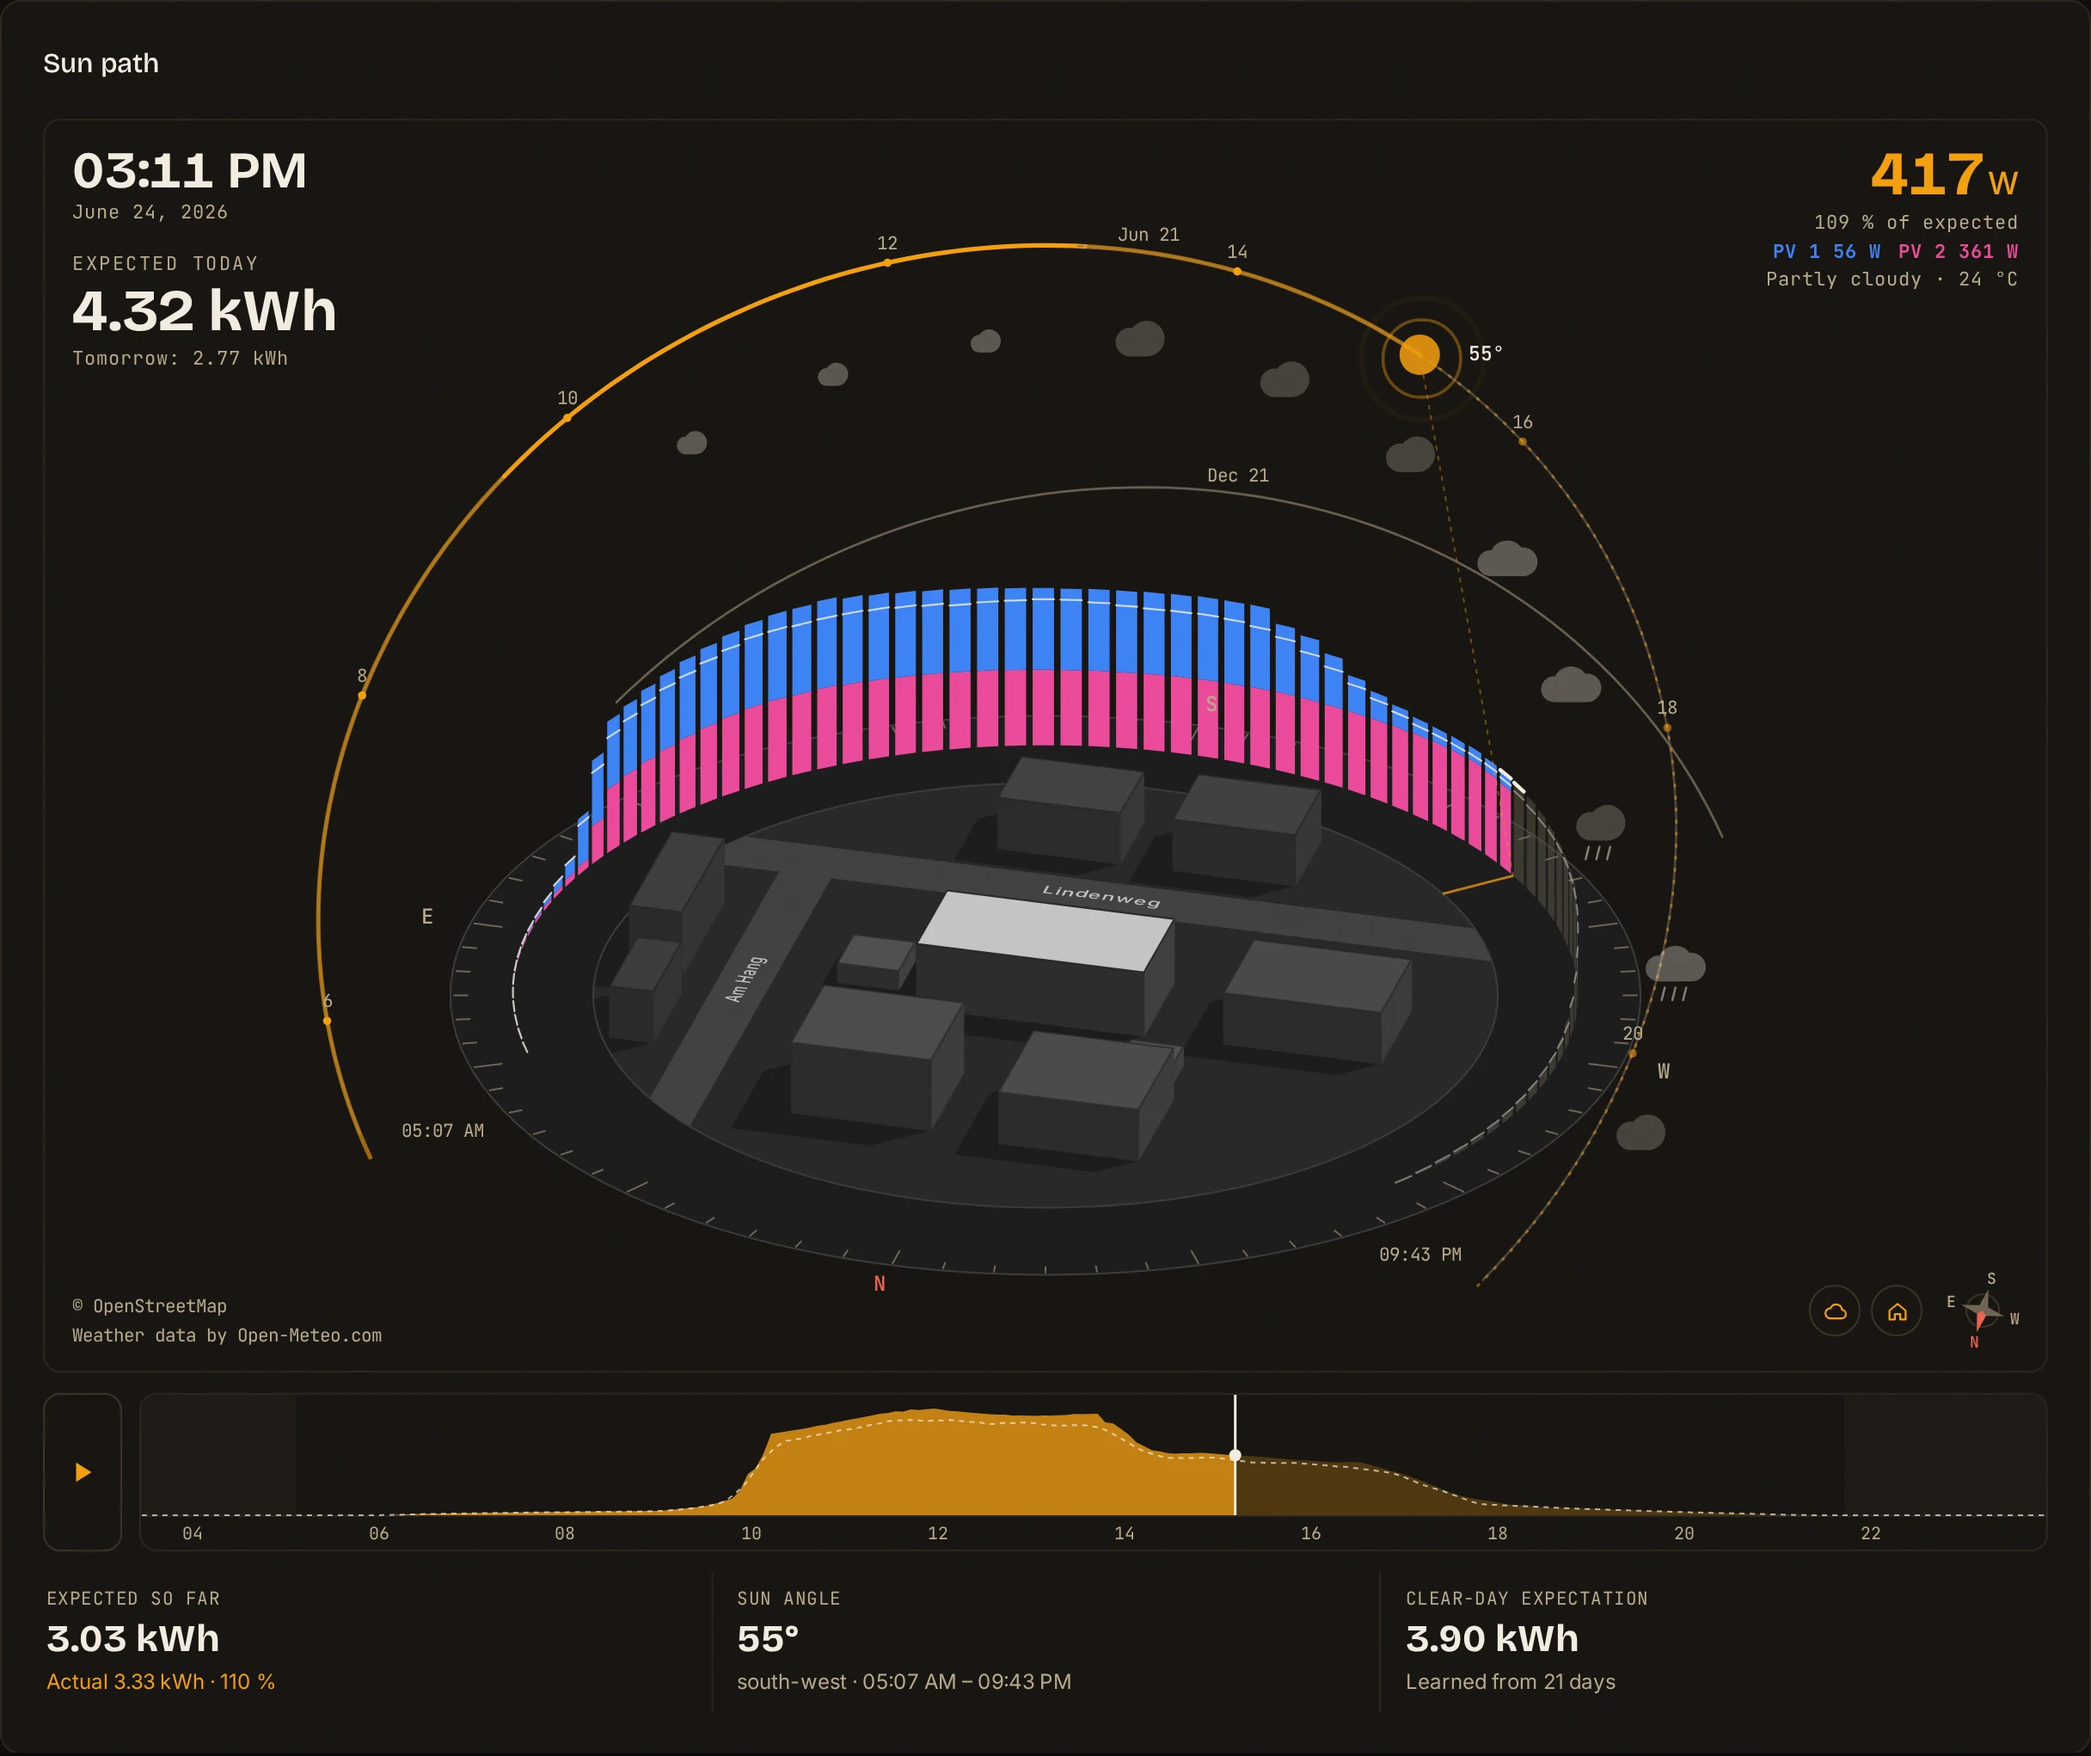
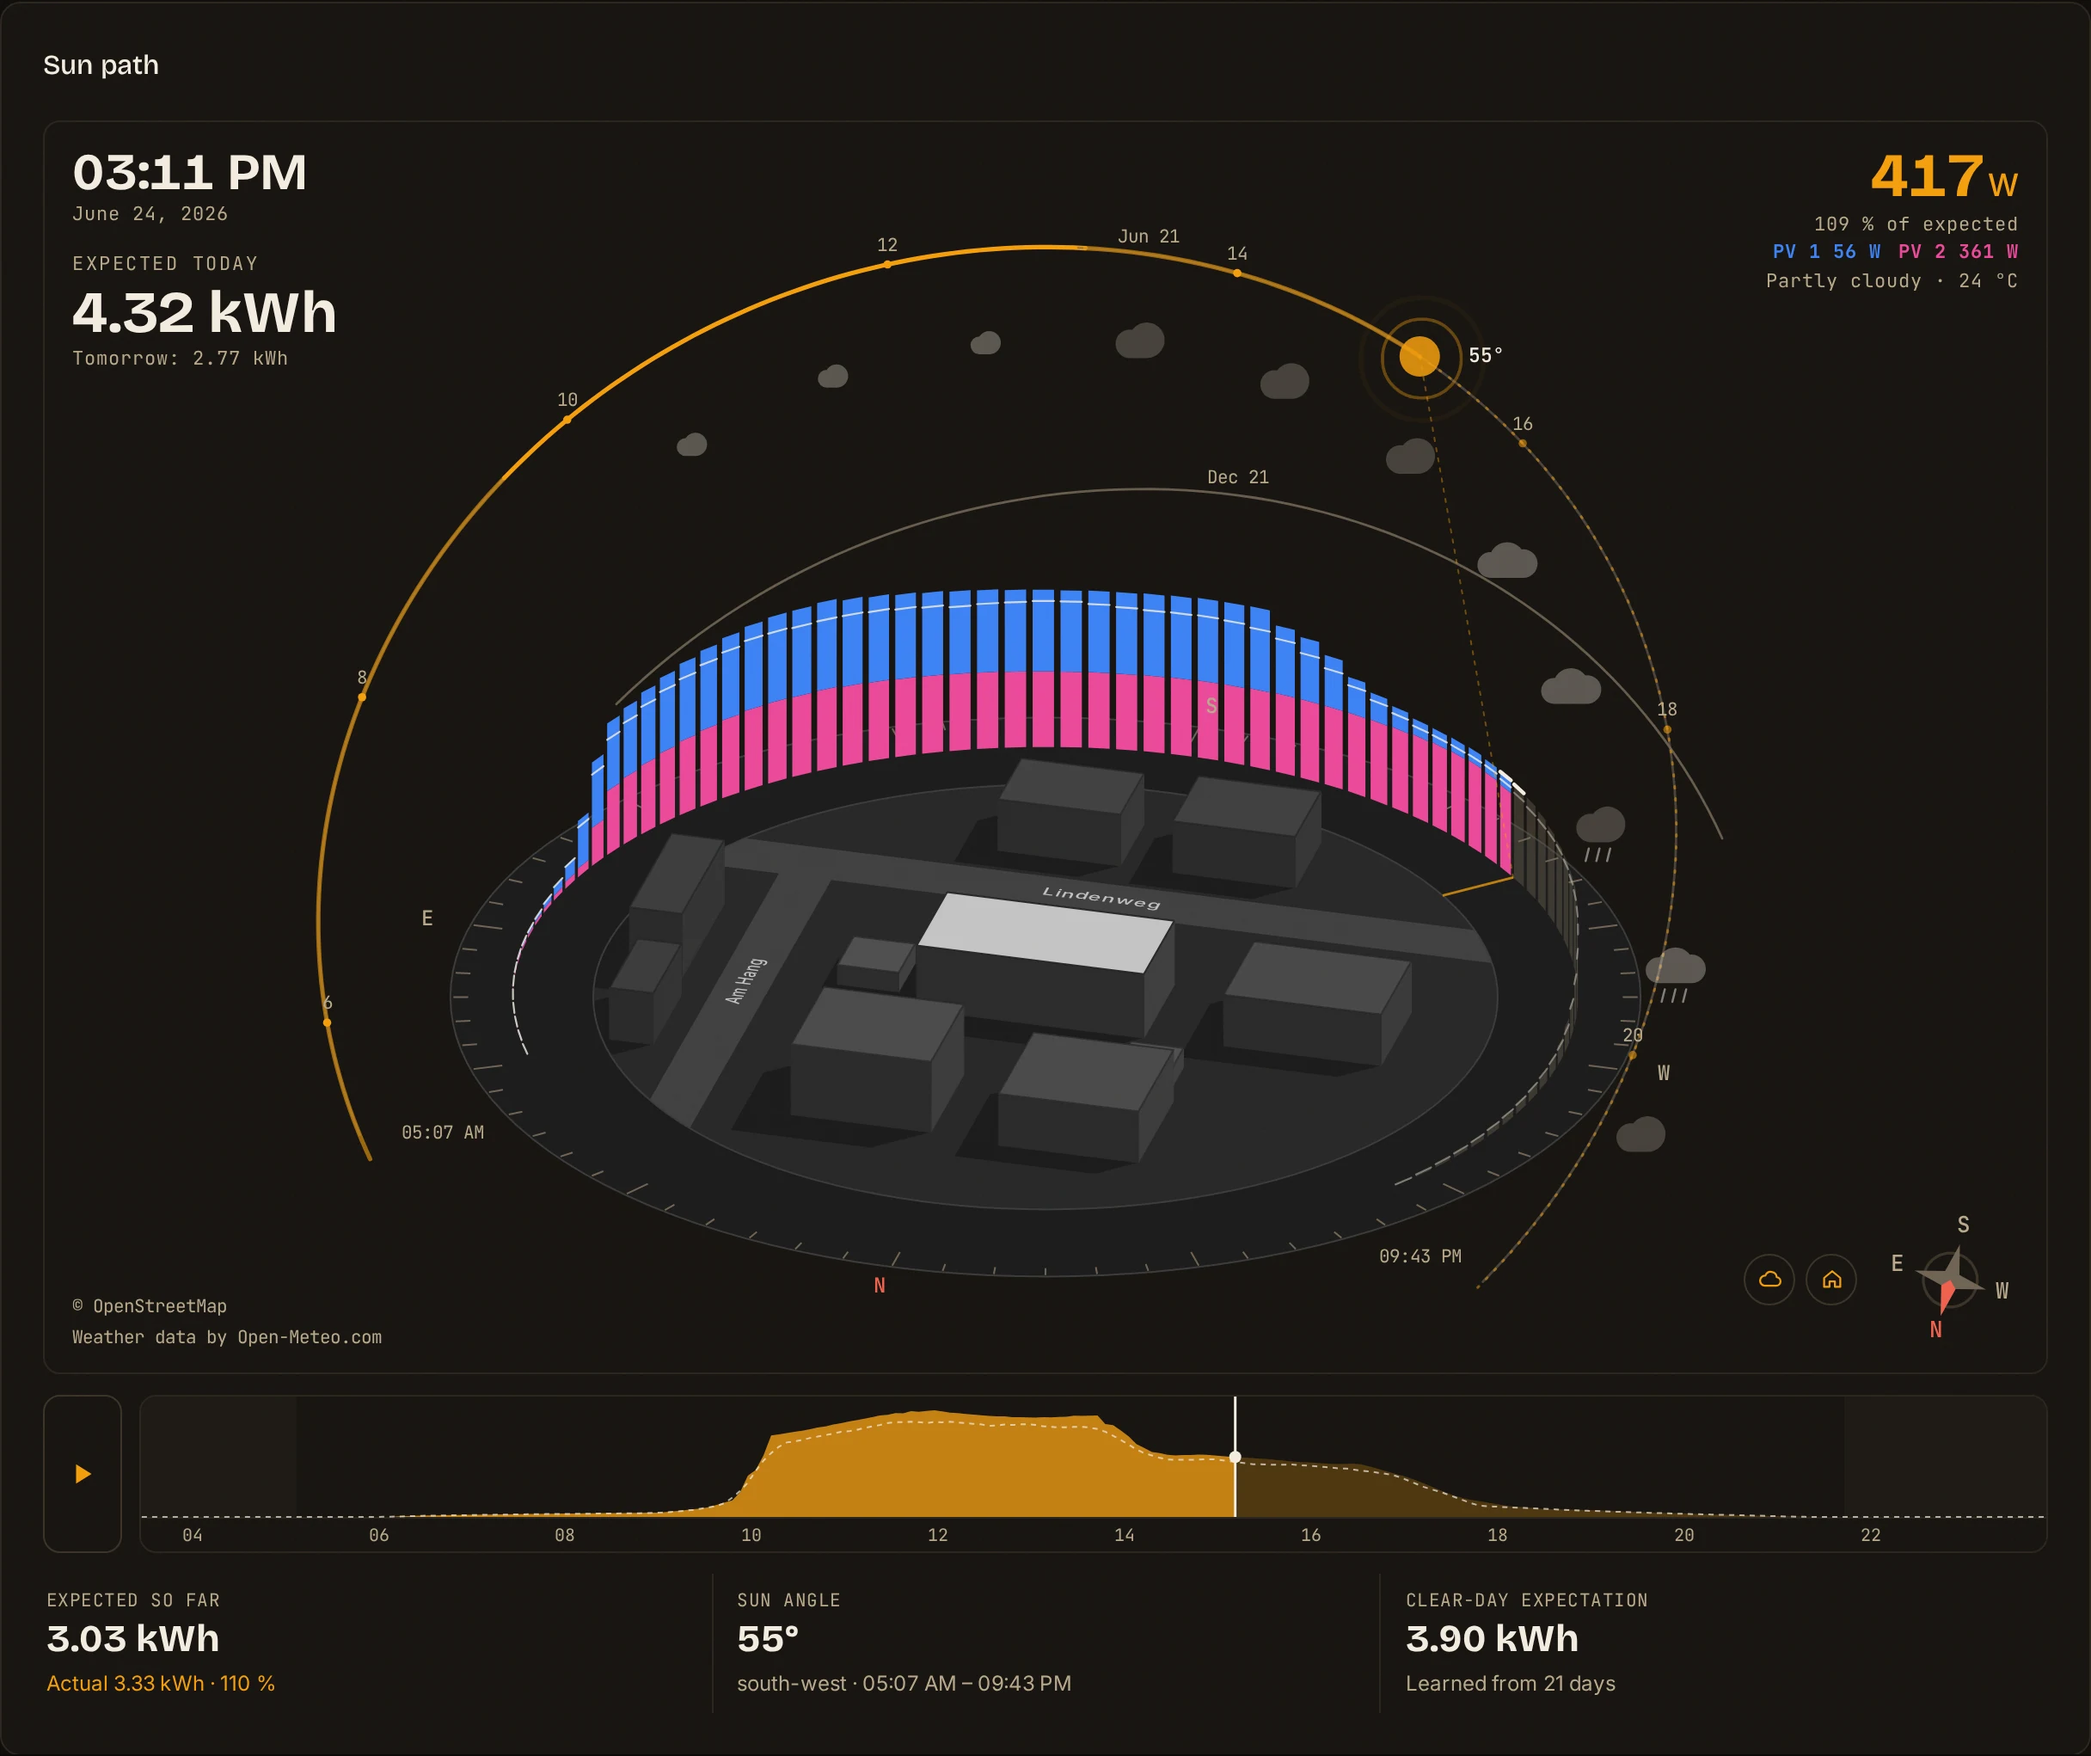
docs: v1.15.3 notes, new screenshots

diff --git a/README.md b/README.md
@@ -47,11 +47,11 @@ to live grid CO₂ data.
 </picture>
 
 - ⚡ **Live view.** Total and per-input power, refreshed every 10 s while the
-  sun is up and right away when you come back to the tab, plus inverter
-  temperature, grid voltage and frequency where the firmware reports them.
-  A small graph in the header shows the inverter's temperature over the last
-  three hours, light blue at 3 °C and below, red from 60 °C, and with
-  `WEATHER_ENABLED` the outside temperature as a dashed line.
+  sun is up and right away when you come back to the tab, plus grid voltage
+  and frequency where the firmware reports them. A small graph in the header
+  shows the inverter's temperature over the last three hours, light blue at
+  3 °C and below, red from 60 °C, and with `WEATHER_ENABLED` the outside
+  temperature as a dashed line.
 - 📈 **Every day, browsable.** The day's curve plus a day picker for every
   recorded day in the retention window — or jump there from a history bar.
 - 🌤 **Shading at a glance.** Peak, average and yield per panel and in total

diff --git a/UPGRADING.md b/UPGRADING.md
@@ -31,6 +31,19 @@ are idempotent. Only these releases do anything noticeable on first start:
 
 The rest of this file is the release history, newest first.
 
+## From v1.15.2 to v1.15.3
+
+No manual steps, no database changes.
+
+- **Temperature graph with a scale.** Round values with dotted lines on the
+  left. The temperature line in the header's device details is gone, since
+  the graph shows the same value.
+- **Play skips the night.** It starts half an hour before sunrise and stops
+  half an hour after sunset, at the same pace as before.
+- **House button replay** runs at full speed for most of the day and brakes
+  later and harder towards the end.
+- **Larger compass rose** in the sun path, on phones a little larger.
+
 ## From v1.15.1 to v1.15.2
 
 No manual steps, no database changes.
